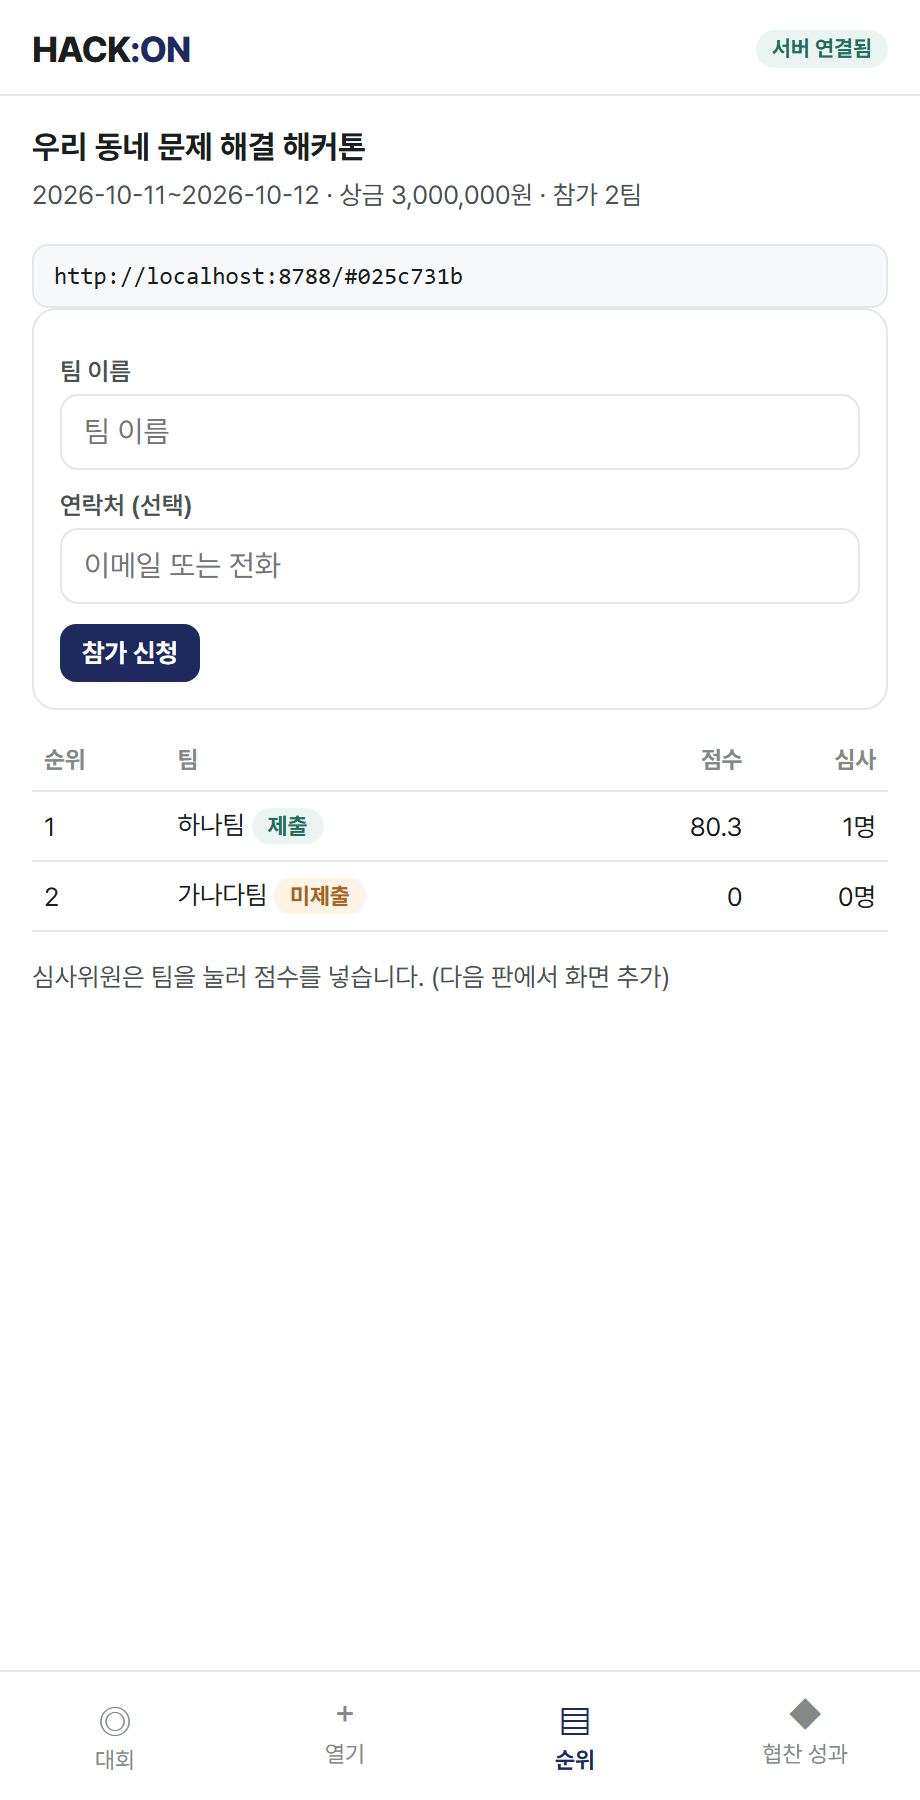
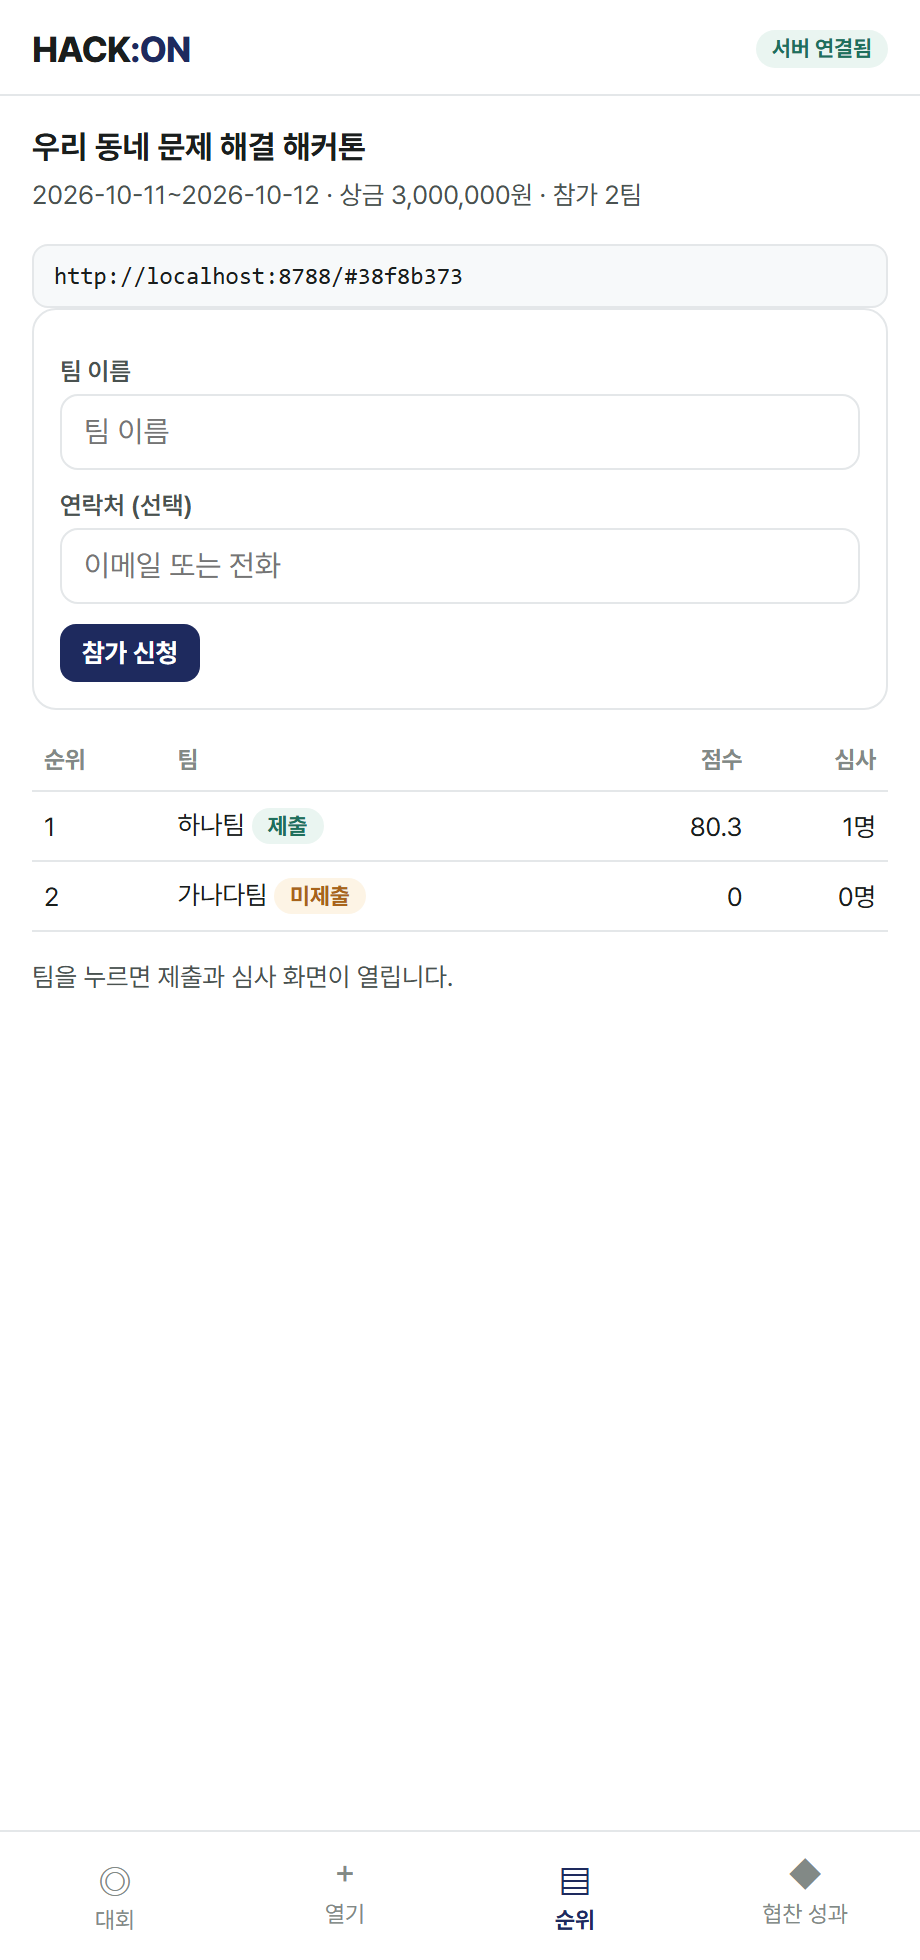
심사·제출 화면 — 순위에서 팀을 눌러 연다
기획안 열 번째 순서대로 다음 두 개를 붙였다.
· 참가팀: 링크와 설명을 제출한다. 다시 내면 덮어쓴다.
· 심사위원: 이름과 항목별 점수를 넣는다. 같은 이름이면 이전 점수를 고친다.

심사위원 이름은 브라우저에 기억시켜 여러 팀을 연달아 볼 때 다시 안 치게 했다.
순위는 항목 가중 평균이라 심사위원 수가 팀마다 달라도 흔들리지 않는다.
실제로 두 명이 넣어 80.3 → 75.1 로 다시 계산되는 것을 화면으로 확인했다.

diff --git a/hack-on.html b/hack-on.html
@@ -117,7 +117,7 @@ const DEMO = {
   outcomes: { teams:3, finished:2, finishRate:66.7, interview:2, adoption:1, hired:0, followup:1, list:[] },
 };
 
-let tab = 'home', cur = localStorage.getItem('hackon.event') || '';
+let tab = 'home', cur = localStorage.getItem('hackon.event') || '', curTeam = '';
 const $ = s => document.querySelector(s);
 const view = $('#view');
 const esc = s => String(s ?? '').replace(/[&<>"]/g, c => ({ '&':'&amp;','<':'&lt;','>':'&gt;','"':'&quot;' }[c]));
@@ -130,7 +130,9 @@ function head() { return msg ? `<div class="${msg.bad ? 'err' : 'ok-msg'}">${esc
 async function render() {
   $('#mode').textContent = LIVE ? '서버 연결됨' : '데모';
   $('#mode').className = 'chip' + (LIVE ? ' live' : '');
-  document.querySelectorAll('nav button').forEach(b => b.classList.toggle('on', b.dataset.t === tab));
+  // 팀 화면은 순위에서 들어가는 곳이라 아래 탭은 '순위'를 켜 둔다
+  const navOn = tab === 'team' ? 'board' : tab;
+  document.querySelectorAll('nav button').forEach(b => b.classList.toggle('on', b.dataset.t === navOn));
   // innerHTML 을 쓰되 서버에서 온 값은 전부 esc() 를 거친다. 화면 조립이 문자열 한 곳에
   // 모여 있어야 라켓온처럼 "서버 호출이 사라졌는지"를 검사로 셀 수 있다.
   try { view.innerHTML = head() + await SCREEN[tab](); }
@@ -186,10 +188,41 @@ const SCREEN = {
         <button class="btn sm" id="t-join">참가 신청</button>
       </div>
       <table><tr><th>순위</th><th>팀</th><th class="n">점수</th><th class="n">심사</th></tr>
-      ${d.rows.map(r => `<tr><td>${r.rank}</td>
+      ${d.rows.map(r => `<tr data-team="${r.id ?? ''}" style="cursor:pointer"><td>${r.rank}</td>
         <td>${esc(r.name)} ${r.done ? '<span class="pill ok">제출</span>' : '<span class="pill warn">미제출</span>'}</td>
         <td class="n">${r.score}</td><td class="n">${r.judges}명</td></tr>`).join('')}</table>
-      <p class="sub" style="margin-top:12px">심사위원은 팀을 눌러 점수를 넣습니다. (다음 판에서 화면 추가)</p>`;
+      <p class="sub" style="margin-top:12px">팀을 누르면 제출과 심사 화면이 열립니다.</p>`;
+  },
+
+  /* 팀 한 곳 — 참가팀은 제출하고, 심사위원은 점수를 넣는다. 같은 화면을 둘이 나눠 쓴다. */
+  async team() {
+    const d = LIVE ? await api(`/events/${cur}/board`) : { event: DEMO.event, rows: DEMO.board };
+    const t = d.rows.find(r => String(r.id) === String(curTeam)) || d.rows[0];
+    if (!t) return `<h2>팀이 없습니다</h2>`;
+    return `<button class="btn sec sm" data-go="board">← 순위로</button>
+      <h2 style="margin-top:12px">${esc(t.name)}</h2>
+      <p class="sub">${t.rank}위 · ${t.score}점 · 심사 ${t.judges}명</p>
+
+      <div class="card">
+        <h3>결과물 제출</h3>
+        <div class="meta">참가팀이 씁니다. 다시 내면 덮어써집니다.</div>
+        <label>링크</label><input id="s-url" value="${esc(t.url || '')}" placeholder="https://...">
+        <label>설명</label><textarea id="s-note" rows="3" placeholder="무엇을 만들었는지 짧게">${esc(t.note || '')}</textarea>
+        <div style="height:10px"></div>
+        <button class="btn sm" id="s-save">제출하기</button>
+      </div>
+
+      <div class="card">
+        <h3>심사</h3>
+        <div class="meta">심사위원이 씁니다. 이름이 같으면 이전 점수를 고칩니다.</div>
+        <label>심사위원 이름</label>
+        <input id="j-name" value="${esc(localStorage.getItem('hackon.judge') || '')}" placeholder="이름">
+        ${d.event.rubric.map(r => `
+          <label>${esc(r.label)} <span class="pill">${r.weight}%</span></label>
+          <input class="j-v" data-key="${esc(r.key)}" type="number" min="0" max="100" value="70">`).join('')}
+        <div style="height:10px"></div>
+        <button class="btn sm" id="j-save">점수 저장</button>
+      </div>`;
   },
 
   async spon() {
@@ -248,6 +281,35 @@ function wire() {
     try {
       await api(`/events/${cur}/teams`, { method: 'POST', body: { name, contact: $('#t-contact').value } });
       flash('참가 신청이 됐습니다');
+    } catch (e) { flash(e.message, true); }
+  };
+
+  document.querySelectorAll('[data-team]').forEach(tr => tr.onclick = () => {
+    if (!tr.dataset.team) return flash('데모에서는 팀 화면을 못 엽니다', true);
+    curTeam = tr.dataset.team; tab = 'team'; render();
+  });
+
+  const ssave = $('#s-save');
+  if (ssave) ssave.onclick = async () => {
+    if (!LIVE) return flash('데모에서는 저장되지 않습니다', true);
+    try {
+      await api(`/teams/${curTeam}/submit`, { method: 'POST',
+        body: { url: $('#s-url').value.trim(), note: $('#s-note').value.trim() } });
+      flash('제출했습니다');
+    } catch (e) { flash(e.message, true); }
+  };
+
+  const jsave = $('#j-save');
+  if (jsave) jsave.onclick = async () => {
+    const judge = $('#j-name').value.trim();
+    if (!judge) return flash('심사위원 이름을 넣어 주세요', true);
+    if (!LIVE) return flash('데모에서는 저장되지 않습니다', true);
+    const values = {};
+    document.querySelectorAll('.j-v').forEach(i => { values[i.dataset.key] = +i.value; });
+    try {
+      await api(`/teams/${curTeam}/score`, { method: 'POST', body: { judge, values } });
+      localStorage.setItem('hackon.judge', judge);
+      flash('점수를 저장했습니다');
     } catch (e) { flash(e.message, true); }
   };
 

diff --git a/README.md b/README.md
@@ -37,7 +37,9 @@ Node 22 이상. **설치할 패키지가 없다** — DB(`node:sqlite`)와 HTTP(
 
 - **대회 열기** — 이름·날짜만 넣으면 끝. 심사 기준은 기본값(독창성30·완성도30·실용성25·전달력15)
 - **참가 신청** — 팀 이름으로 신청. 정원과 중복 이름을 서버가 막는다
-- **제출·심사** — 팀당 제출물 1개, 심사위원별 항목 점수. 순위는 가중 평균
+- **제출·심사** — 순위에서 팀을 누르면 열린다. 참가팀은 링크·설명을 내고,
+  심사위원은 이름과 항목별 점수를 넣는다. 같은 이름으로 다시 넣으면 고쳐진다.
+  순위는 항목 가중 평균이라 심사위원 수가 달라도 흔들리지 않는다
 - **협찬 성과** — 완주율·면접 연결·도입 검토·채용을 기록한다.
   “몇 명이 봤다”를 쓰지 않는 것이 이 서비스의 차별점이다
 

diff --git a/PLAN.md b/PLAN.md
@@ -91,8 +91,8 @@
 
 ## 5. 다음에 할 것
 
-- [ ] 심사위원 화면 — 팀을 눌러 항목별 점수를 넣는 화면
-- [ ] 제출 화면 — 참가팀이 링크·설명을 올리는 화면
+- [x] 심사위원 화면 — 팀을 눌러 항목별 점수를 넣는 화면
+- [x] 제출 화면 — 참가팀이 링크·설명을 올리는 화면
 - [ ] 대회 페이지 공개 링크 — 로그인 없이 보이는 읽기 전용 화면
 - [ ] 운영 매뉴얼 문서 (`GUIDE.md`) — 8주 준비 목록·심사표·사고 대응
 - [ ] 라켓온의 `check-e2e.py` 방식 완주 테스트 이식
